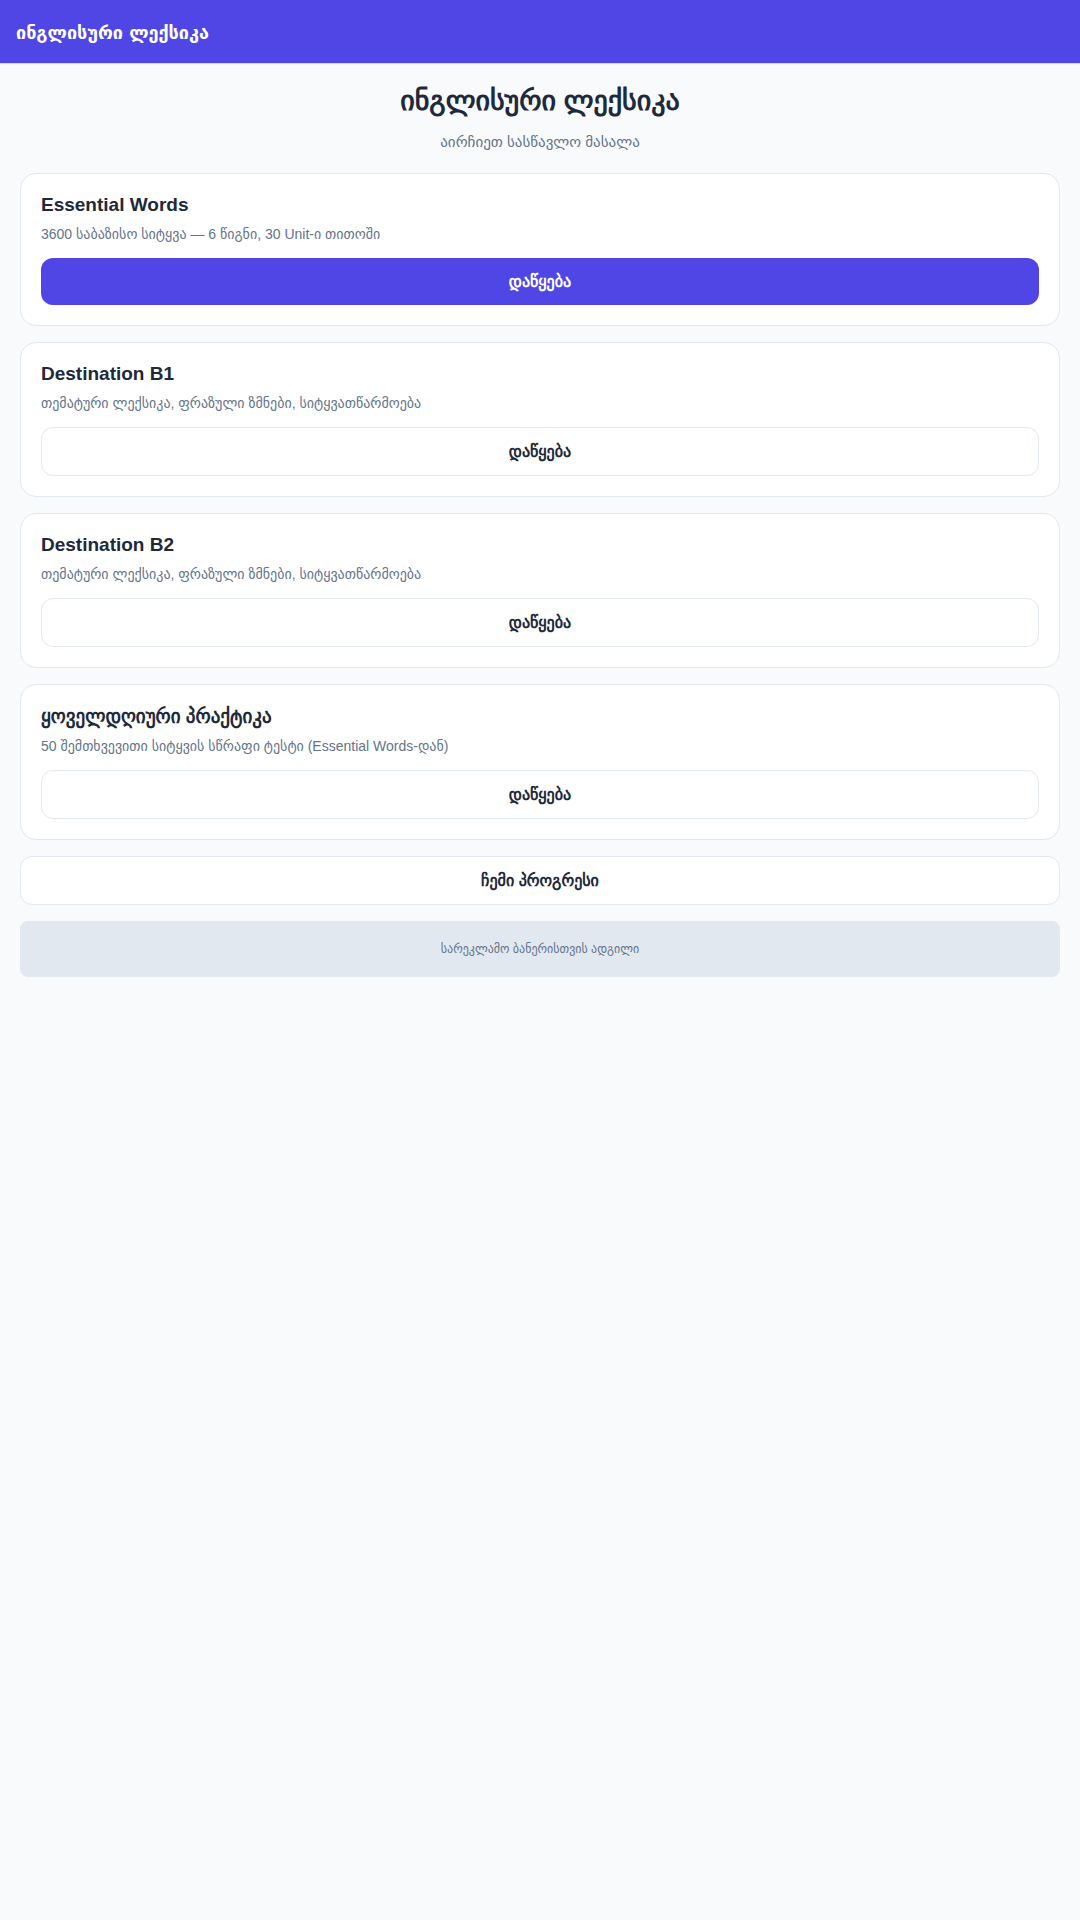
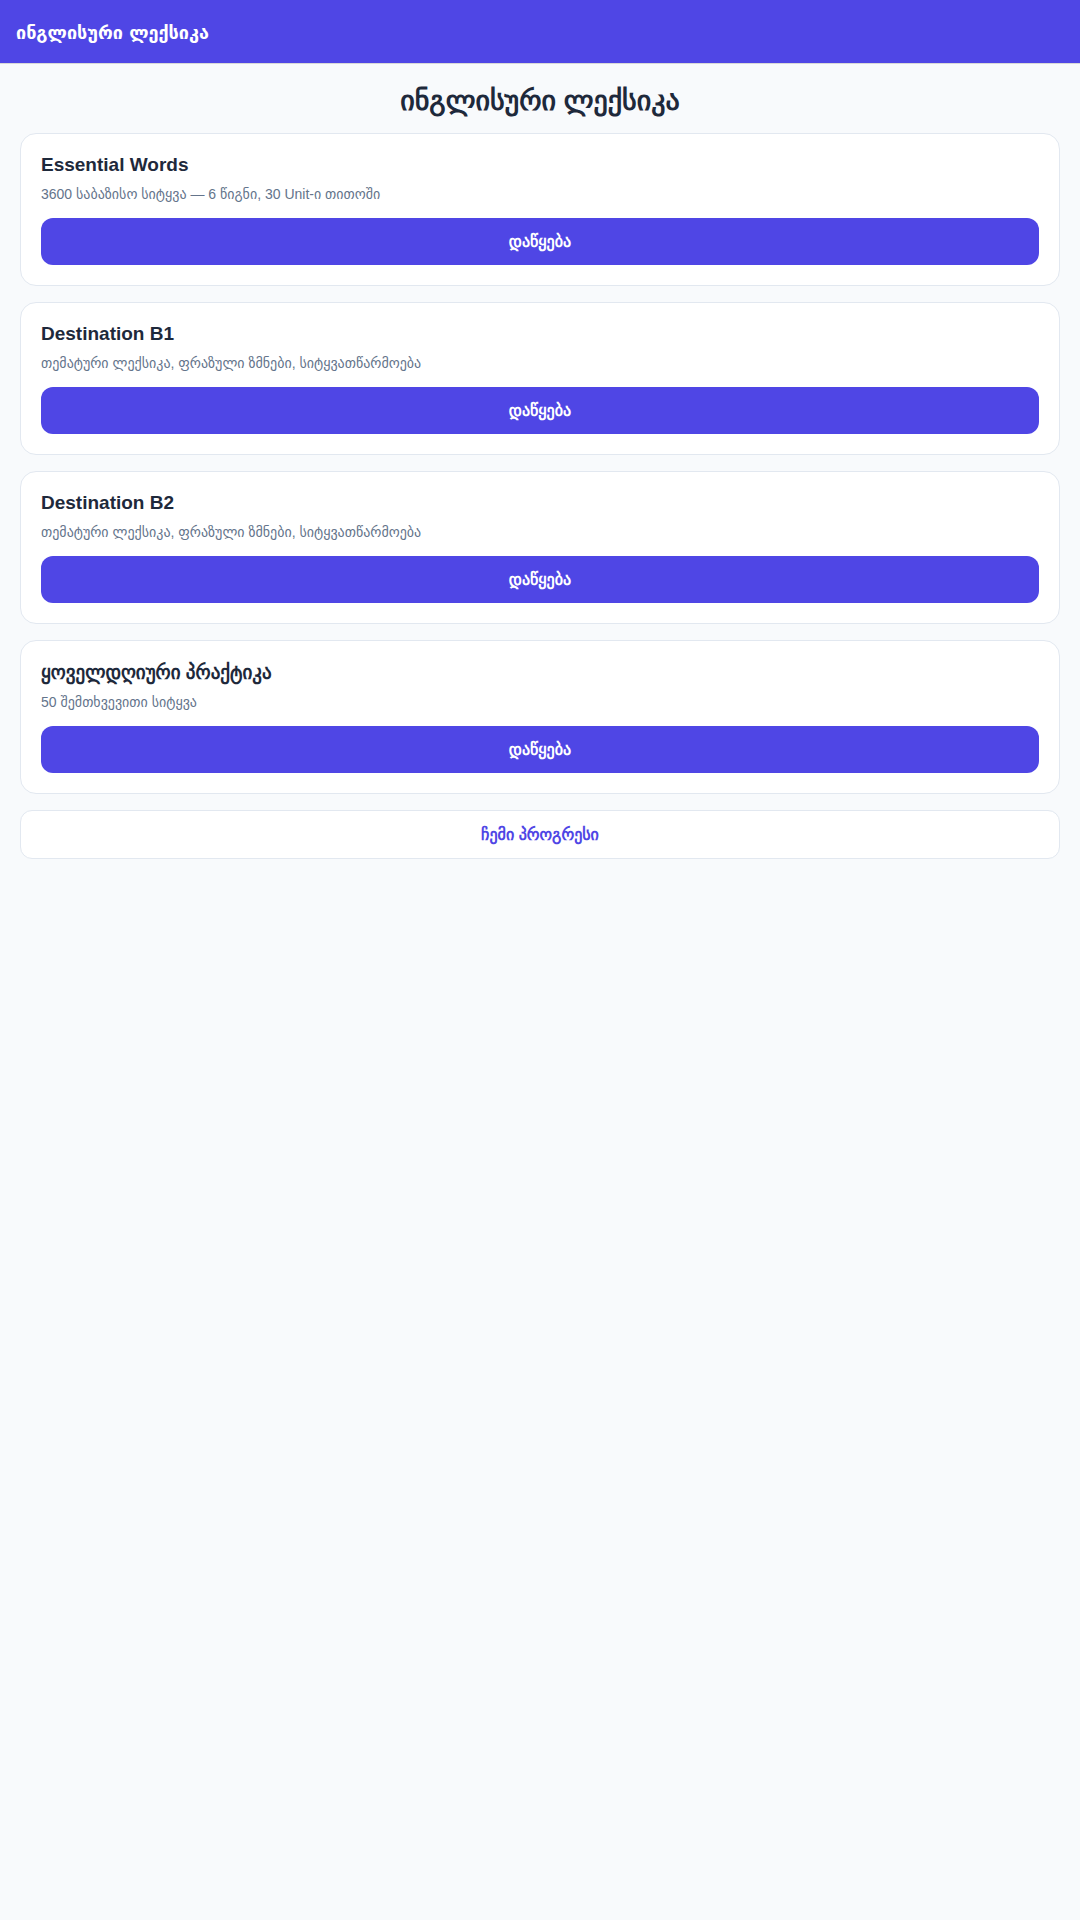
Refresh Play Store listing text and screenshots for current app state
The listing still described the old test direction (type the Georgian
translation) and only mentioned Essential Words, and the screenshots
predated the home screen simplification. Updated the description to
cover all three content series and the current Georgian-shown/
English-typed test flow, and regenerated screenshots from the live
web export (home, book list, learn, Destination B1 units, test).

Claude-Session: https://claude.ai/code/session_01S23qUPZbr4rsB48TkGoa62

Changed region(s): [[0.0306, 0.0625, 0.9778, 0.3438], [0.0306, 0.3438, 0.9778, 0.5]]

diff --git a/docs/store-listing.md b/docs/store-listing.md
@@ -4,27 +4,33 @@
 ინგლისურ-ქართული ლექსიკონი (Lexikoni)
 
 ## Short description (max 80 chars)
-ისწავლე 3600 ინგლისური სიტყვა ქართულად — გახმოვანება, ტესტები, პრაქტიკა
+ისწავლე ათასობით ინგლისური სიტყვა და ფრაზა ქართულად — გახმოვანება, ტესტები
 
 ## Full description
 
-**ინგლისურ-ქართული ლექსიკონი — ისწავლე 3600 სიტყვა**
+**ინგლისურ-ქართული ლექსიკონი — ისწავლე ათასობით სიტყვა და ფრაზა**
 
 ეს აპლიკაცია დაგეხმარებათ სისტემურად შეისწავლოთ ინგლისური ენის ლექსიკა ქართული
-განმარტებებით. მთელი მასალა დაყოფილია 6 წიგნად (დონედ), თითოეულში 30 Unit და
-თითო Unit-ში 20 სიტყვა — სულ 3600 სიტყვა-წყვილი, დაწყებითიდან გაღრმავებულ დონემდე.
+განმარტებებით. აპში სამი სასწავლო მასალაა:
+
+- **Essential Words** — 3600 საბაზისო სიტყვა, დაყოფილი 6 წიგნად, თითოეულში 30
+  Unit და თითო Unit-ში 20 სიტყვა
+- **Destination B1** — თემატური ლექსიკა, ფრაზული ზმნები, წინდებულიანი ფრაზები და
+  სიტყვათწარმოება საშუალო დონისთვის
+- **Destination B2** — იგივე კატეგორიები უფრო გაღრმავებულ დონეზე
 
 📚 სწავლება
-აირჩიეთ წიგნი და Unit — ნახეთ ინგლისური სიტყვა, მოუსმინეთ სწორ გამოთქმას (ტელეფონის
-ჩაშენებული ხმის სინთეზით) და ისწავლეთ ქართული მნიშვნელობა.
+აირჩიეთ მასალა და Unit — ნახეთ ინგლისური სიტყვა ან ფრაზა, მოუსმინეთ სწორ გამოთქმას
+(ტელეფონის ჩაშენებული ხმის სინთეზით) და ისწავლეთ ქართული მნიშვნელობა.
 
 ✏ ტესტი
-Unit-ის ბოლოს ჩაწერეთ ქართული თარგმანი ინგლისური სიტყვისთვის. სწორი პასუხი — მწვანედ,
-არასწორი — წითლად, სწორი პასუხის ჩვენებით. შეცდომაში დაშვებული სიტყვები მეორდება
-ტესტის ბოლოს, სანამ ყველაფერს არ გაივლით უშეცდომოდ.
+Unit-ის ბოლოს გამოგიჩნდებათ ქართული მნიშვნელობა — ჩაწერეთ შესაბამისი ინგლისური
+სიტყვა ან ფრაზა. სწორი პასუხი — მწვანედ, არასწორი — წითლად, სწორი პასუხის ჩვენებით.
+შეცდომაში დაშვებული სიტყვები მეორდება ტესტის ბოლოს, სანამ ყველაფერს არ გაივლით
+უშეცდომოდ.
 
 🔁 ყოველდღიური პრაქტიკა
-მთელი 3600 სიტყვის ბაზიდან ყოველდღე შემთხვევით შეირჩევა 50 სიტყვა სწრაფი
+ყველა მასალიდან ერთად ყოველდღე შემთხვევით შეირჩევა 50 სიტყვა სწრაფი
 გამეორებისთვის — იდეალურია უკვე ნასწავლის განსამტკიცებლად.
 
 📊 პროგრესის თვალთვალი
